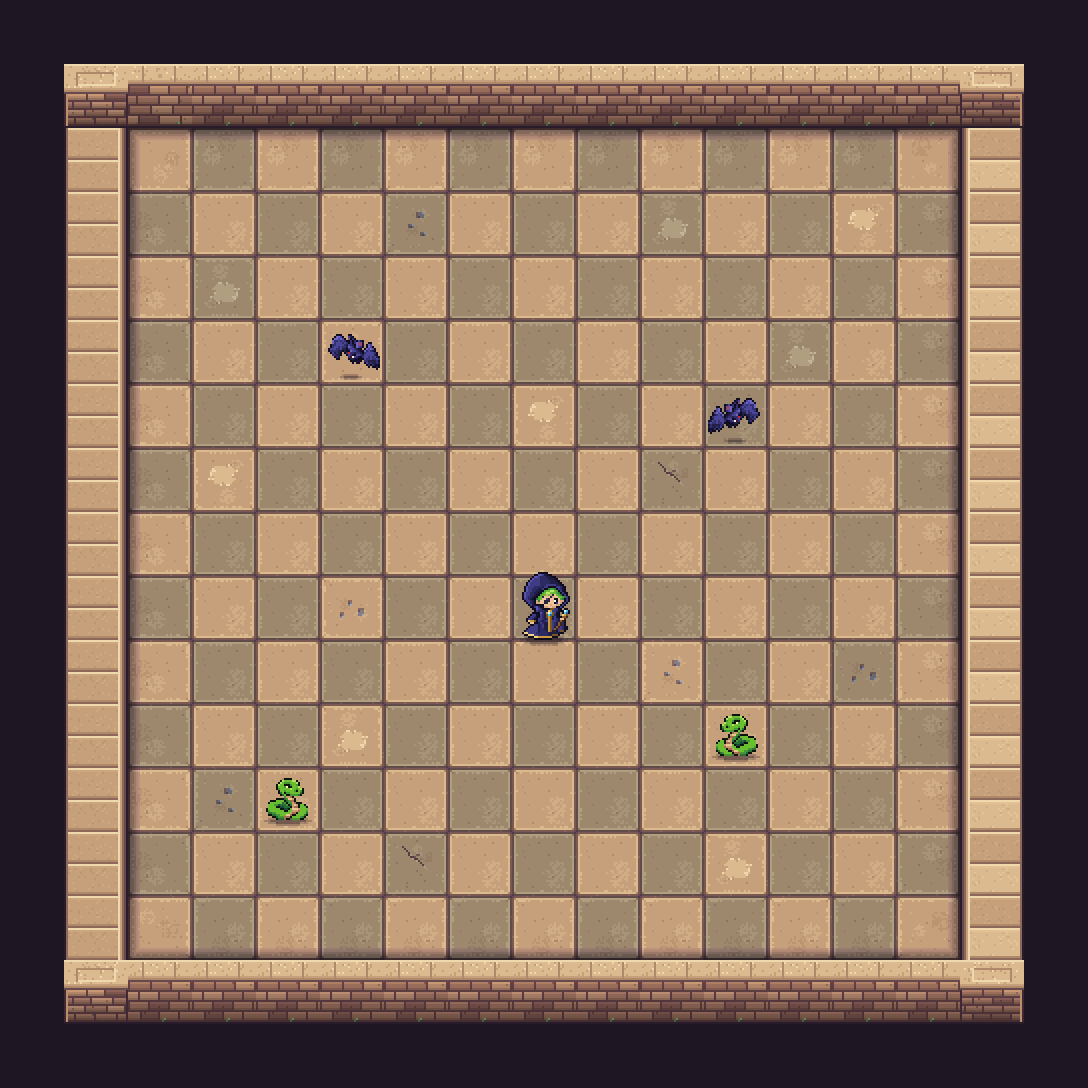
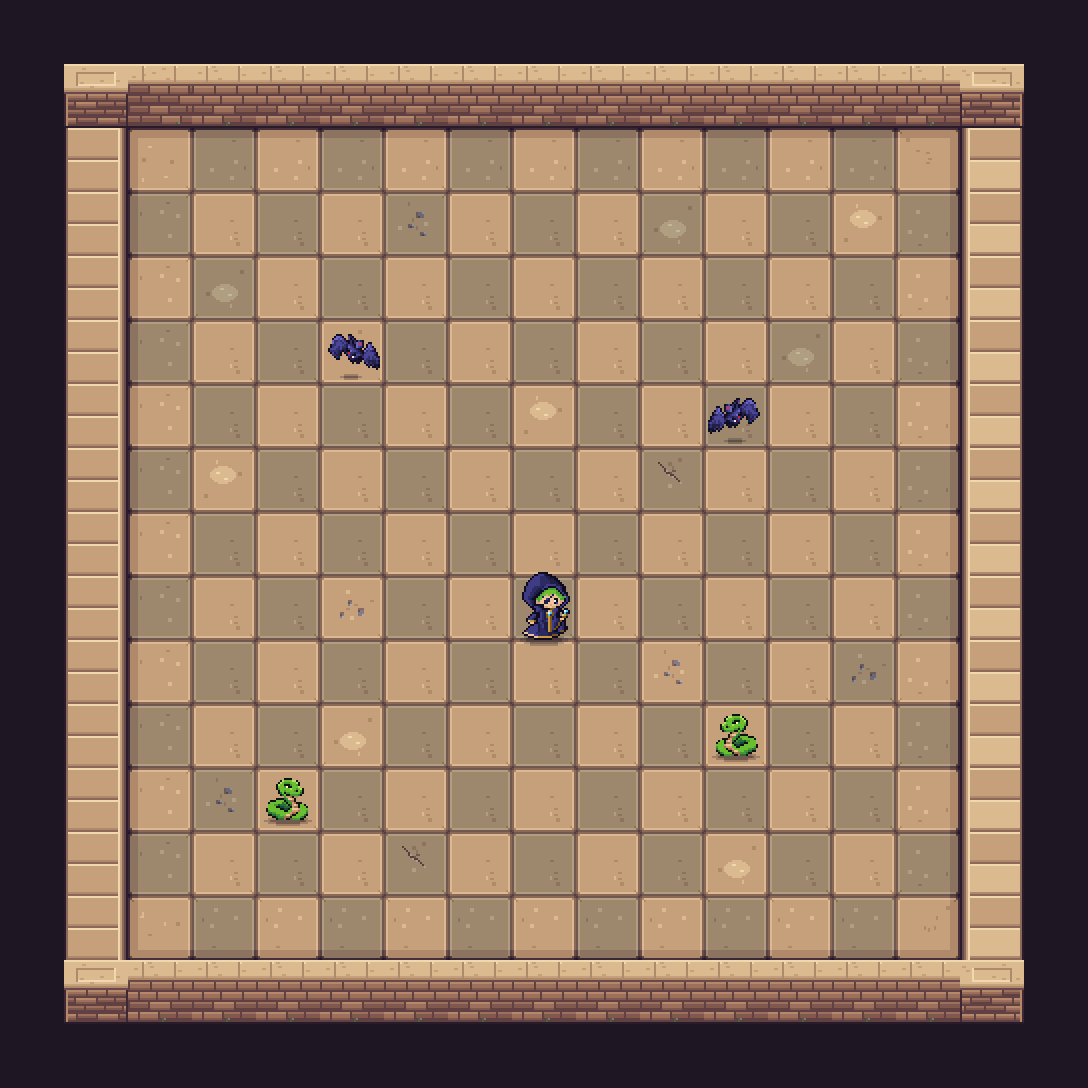
fix(art): 마법사·맵 타일을 아트 스타일 바이블 색·명암 기준에 맞춤
배경:
- 바이블 감사에서 마법사(24색), 위·아래 벽(99색, 세로 그라데이션), 가장자리 바닥(33색, 곱셈 그림자),
  바닥 1px 알갱이 질감이 기준(12색 이하, 재질당 2~3단계, 1px 반복 질감 금지)을 넘었다.

변경:
- 마법사: 비슷한 중간색 12개를 같은 램프의 대표색으로 합친다. 게임 시트 5장과 Aseprite 원본에 같은 대응표를 적용한다.
- 바닥: 1px 알갱이를 램프 색 2px 덩어리로 바꾸고 모래 얼룩을 단색 면으로 단순화한다.
- 가장자리 바닥: 곱셈 그림자를 램프 안에서 1~2단계 내리는 방식으로 바꾼다.
- 벽: 벽돌 세로 그라데이션과 배율 곱 색을 없애고 벽돌 램프 이웃색만 쓴다.
- 바이블 감사 표를 정리 후 측정값으로 갱신하고 README 이미지를 다시 만든다.

검증:
- 게임이 쓰는 칸 기준 색 수: 마법사 idle 12, 바닥 9, 가장자리 7, 위·아래 벽 12, 좌우 벽 7, 모서리 11. 반투명 0.
- 시트 크기·칸 배치는 그대로라 슬라이스·GUID·씬 참조 변화 없음. Unity Play 확인은 미수행.

주의사항:
- 공격·피격 시트는 이펙트·번쩍임 색을 포함해 16색이다.

diff --git a/ArtStyleBible.md b/ArtStyleBible.md
@@ -138,29 +138,30 @@ HUD 팔레트(주 패널 `#0C1222`, 청록 강조 `#67CAFF`, 금색 강조 `#FFC
 | 분류 | 기준 에셋 | 상태 |
 | --- | --- | --- |
 | 픽셀 밀도·단순함 (전 분류의 상한) | [`Art/GoldStandard/jaguar_sheet.png`](Art/GoldStandard/jaguar_sheet.png) (68×68 ×2), [미리보기](Art/GoldStandard/jaguar_preview.png) | 확정 |
-| 플레이어 캐릭터·모션 | `Assets/Player/Lively/wizard_*.png` | 현행 기준 (색 수 정리 필요, §11) |
+| 플레이어 캐릭터·모션 | `Assets/Player/Lively/wizard_*.png` | 현행 기준 |
 | 소형 몬스터·모션 | `Assets/Monsters/{Bat,Snake}/Lively/*.png` | 현행 기준 |
 | 중형 몬스터 | `Assets/Monsters/Armadillo/armadillo_sheet.png` | 현행 기준 (64px → 68px 규격과 차이) |
 | 바닥 타일 | `Assets/TIles/tileset2.aseprite` | 현행 기준 |
-| 벽·가장자리 타일 | `Assets/TIles/wall_*`, `Sprite-tile2-Sheet.png` | 검토 필요 (§11) |
+| 벽·가장자리 타일 | `Assets/TIles/wall_*`, `Sprite-tile2-Sheet.png` | 현행 기준 |
 | UI 아이콘 | `Assets/UI/Icons/Movement/*.png` | 현행 기준 |
 | 보스 | `Art/Concepts/` 퀸 시안 | 미확정 — 시안 단계 |
 
 새 에셋은 같은 분류의 Gold Standard **옆에 나란히 놓고** 비교한다. 판단이 애매하면 디테일을 더하지 말고 Gold Standard 수준까지 단순화한다.
 
-## 11. 현재 에셋 감사 (2026-10-14 측정)
+## 11. 현재 에셋 감사
 
-| 에셋 | 측정 | 기준과의 차이 | 조치 |
+| 에셋 | 2026-10-14 첫 측정 | 정리 후 | 남은 차이 |
 | --- | --- | --- | --- |
-| 마법사 프레임 | 24색 | 최대 12색 초과 | 비슷한 중간색 통합 |
-| 박쥐·뱀 프레임 | 각 11색 | 통과 | — |
-| 아르마딜로 | 12색, 64×64 | 색은 통과. 캔버스 68 규격과 다름 | 다음 수정 때 68×68로 |
-| 바닥 4종 | 12색 | 색은 통과. 1px 알갱이 질감이 일부 있음 | 알갱이를 줄이고 큰 면 위주로 |
-| 가장자리 바닥 | 33색 | 그림자를 곱셈으로 만들어 중간색이 생김 | 그림자를 2단계 고정색으로 |
-| 위·아래 벽 | 99색 | 벽돌 세로 그라데이션 = 금지 항목 | 그라데이션 제거, 단계형 2~3색 |
-| 반투명 픽셀 | 모든 시트 0개 | 통과 | — |
+| 마법사 프레임 | 24색 | **12색** (idle), 11색 (walk) | 공격·피격 시트는 이펙트·번쩍임 색 포함 16색 |
+| 박쥐·뱀 프레임 | 각 11색 | 그대로 | — |
+| 아르마딜로 | 12색, 64×64 | 그대로 | 캔버스 68 규격과 다름 (다음 수정 때 68×68) |
+| 바닥 4종 | 12색, 1px 알갱이 | **9색**, 2px 덩어리만 | — |
+| 가장자리 바닥 | 33색 (곱셈 그림자) | **7색**, 램프 안에서 1~2단계 내리기 | — |
+| 위·아래 벽 | 99색 (세로 그라데이션) | **12색**, 그라데이션 제거 | — |
+| 좌우 벽 / 모서리 | — | 7색 / 11색 | — |
+| 반투명 픽셀 | 0개 | 0개 | — |
 
-이 표는 정리 대상 목록이다. 기존 에셋을 고칠 때는 같은 크기·같은 칸 배치로 픽셀만 바꿔 GUID와 참조를 유지한다.
+색 수는 게임이 실제로 쓰는 칸 기준이다. 마법사 사망 시트의 묘비는 별도 오브젝트로 보고 따로 센다. 기존 에셋을 고칠 때는 같은 크기·같은 칸 배치로 픽셀만 바꿔 GUID와 참조를 유지한다.
 
 ## 12. 제작 흐름
 
